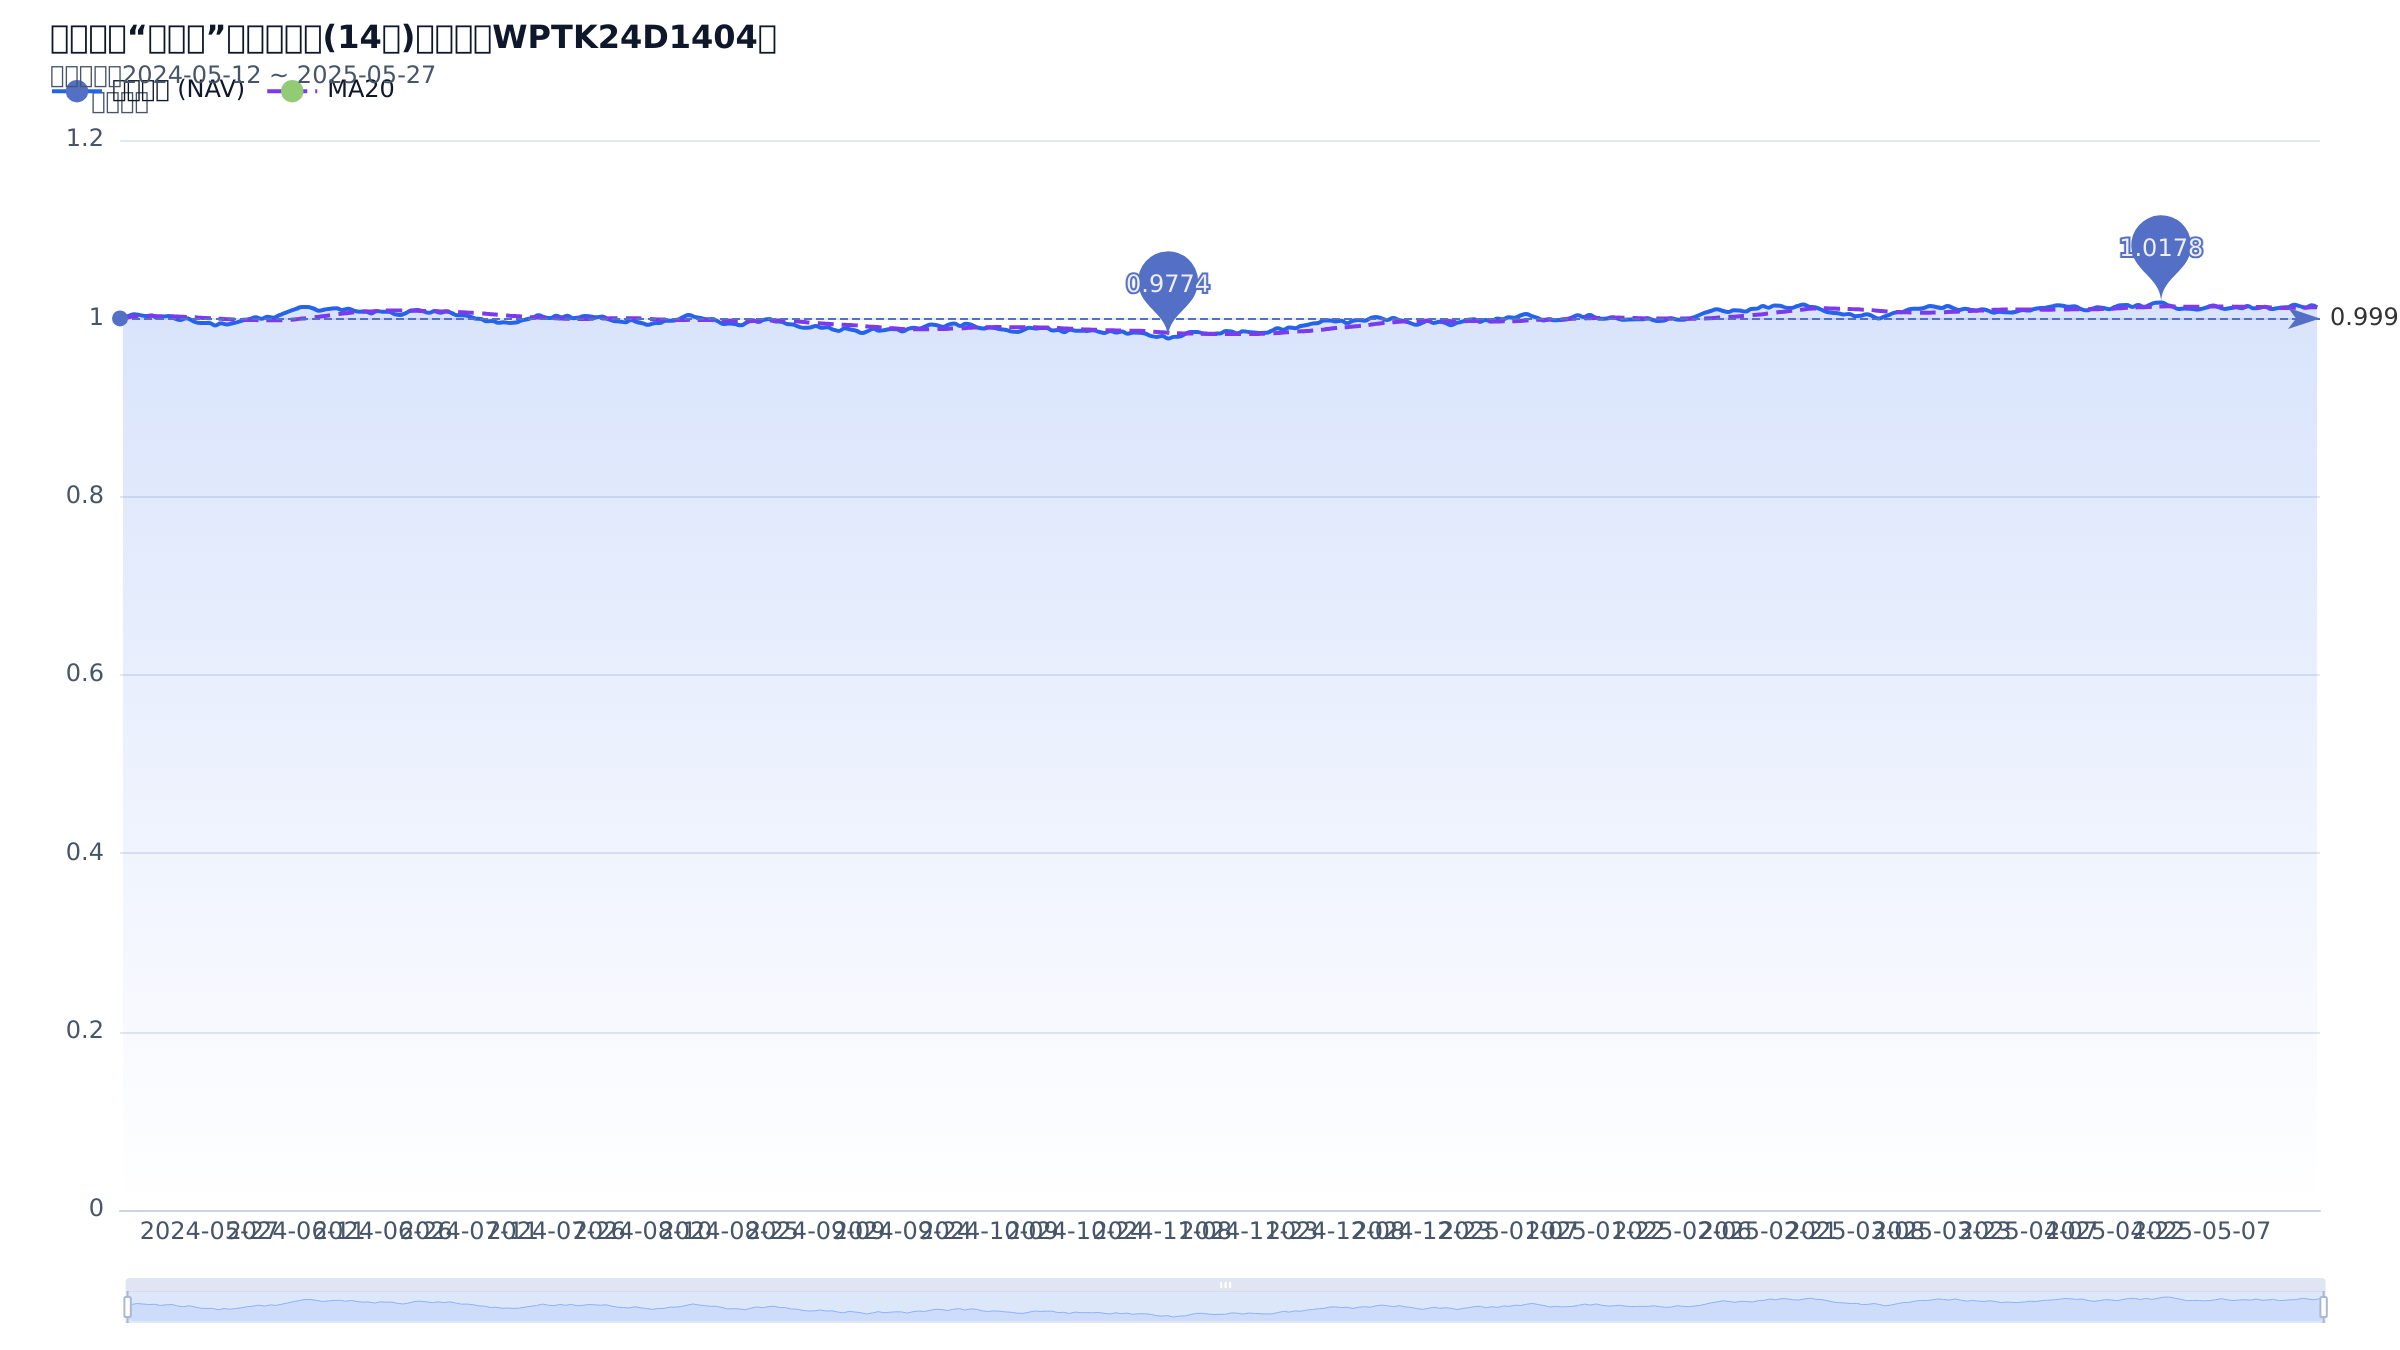
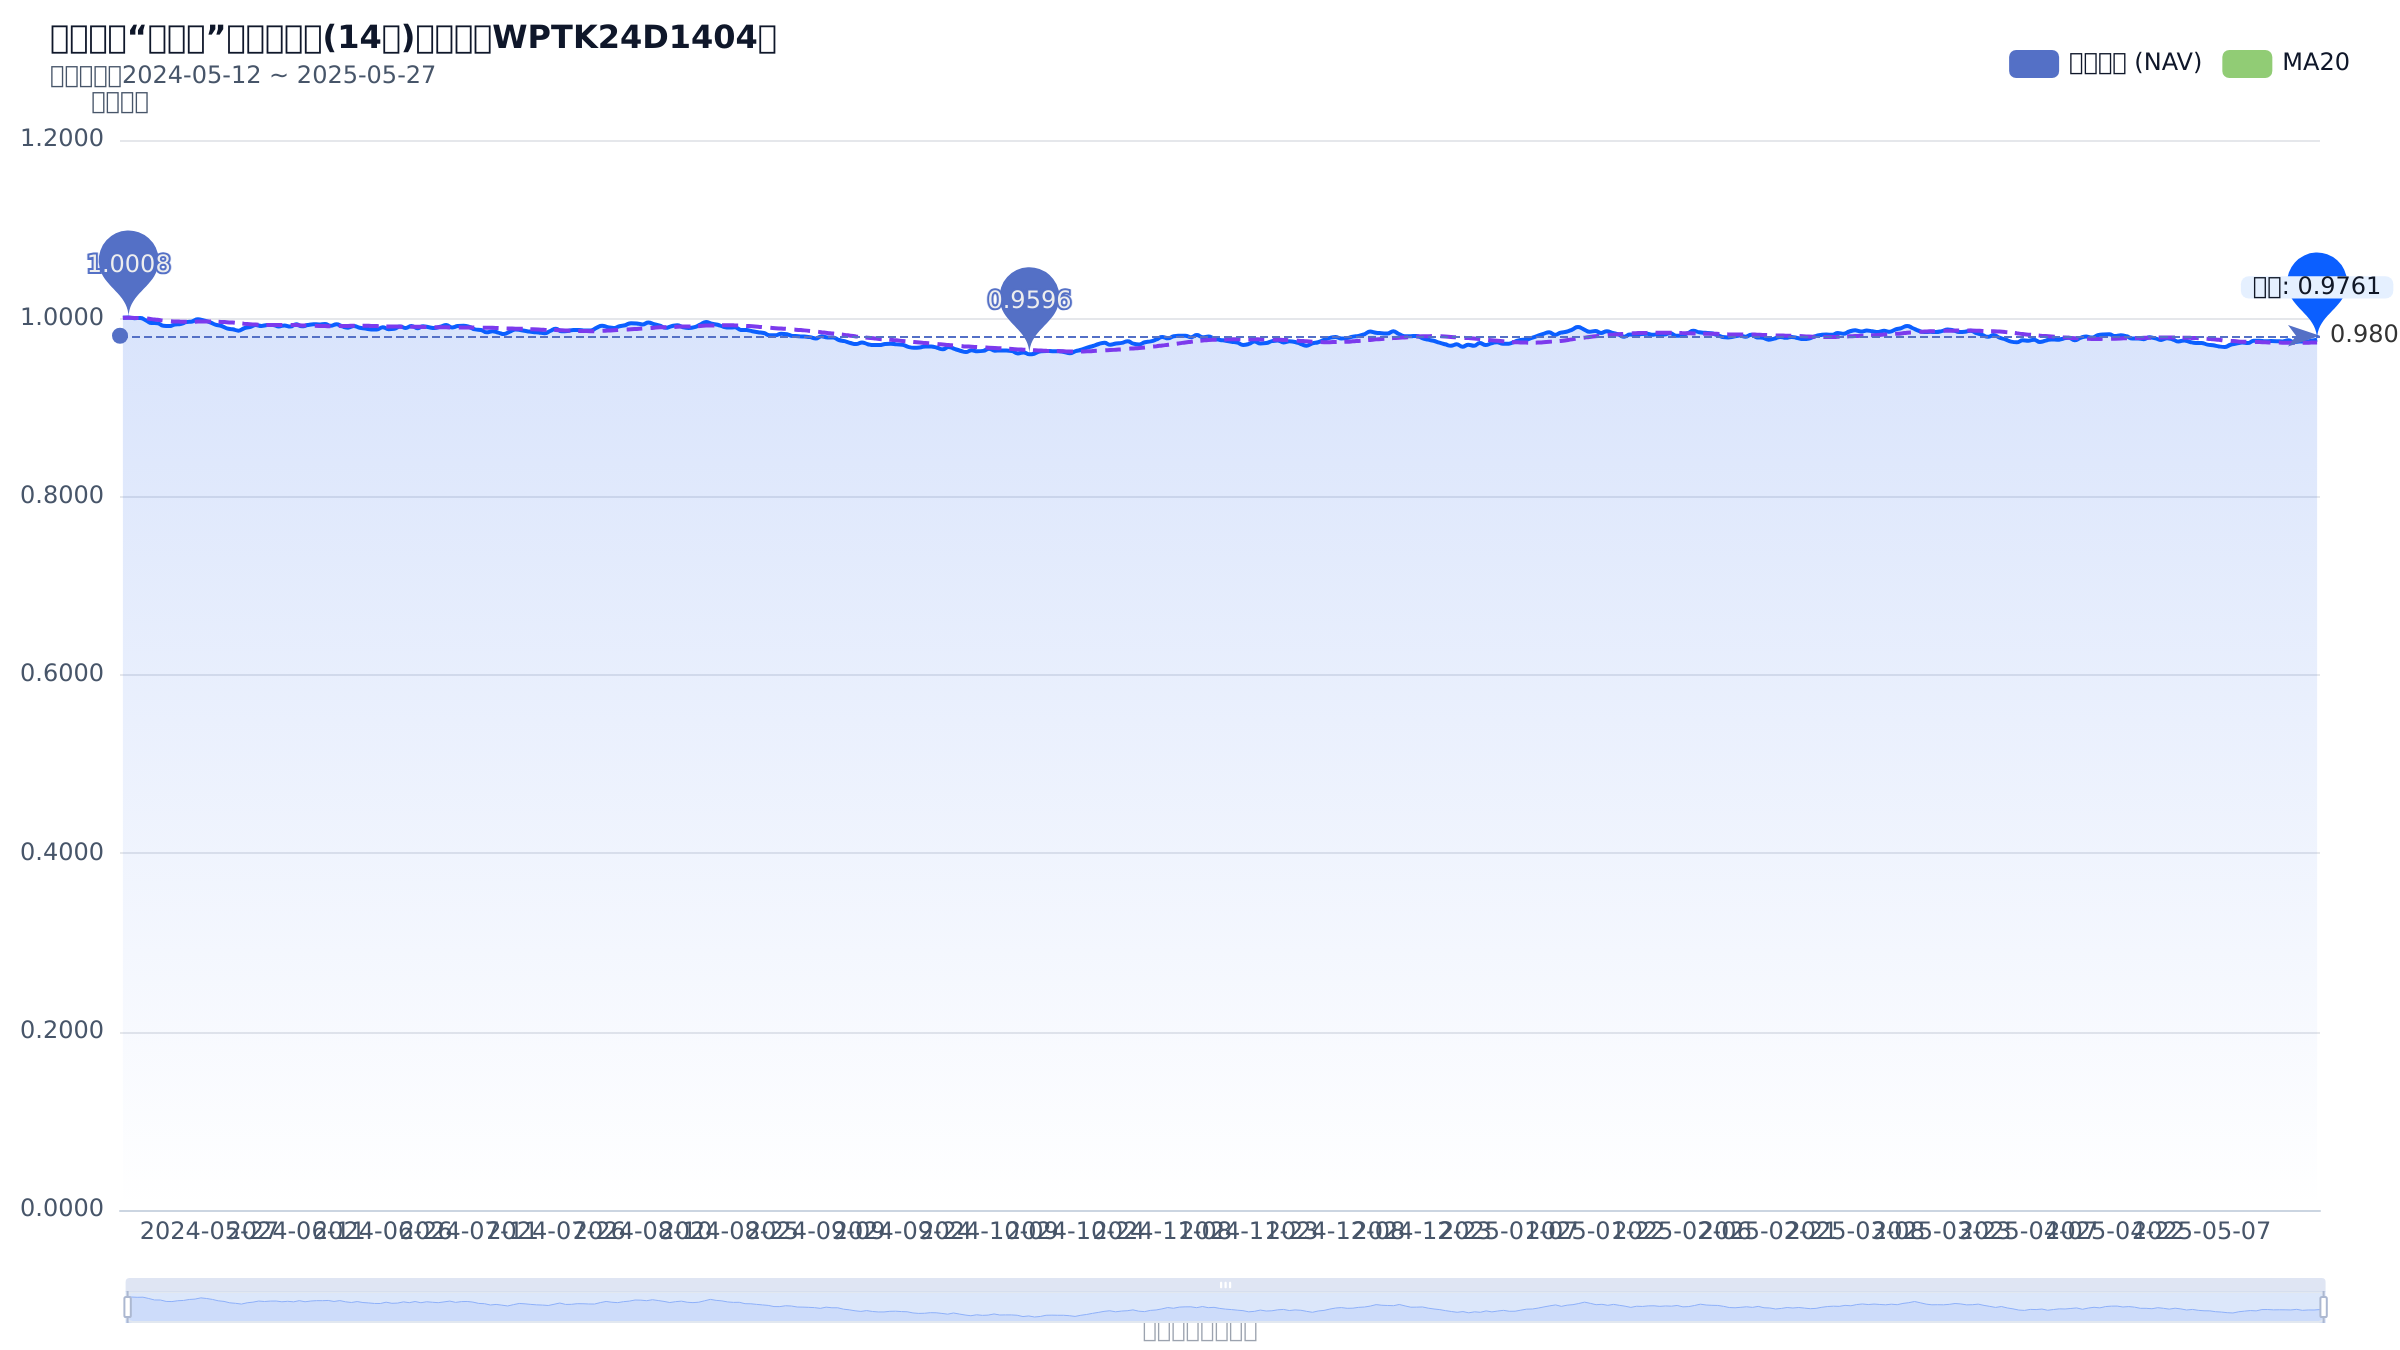
style(fund_nav): finalized professional styling with latest mark and footnote

diff --git a/scripts/render_fund_chart.js b/scripts/render_fund_chart.js
@@ -32,13 +32,19 @@ const puppeteer = require('puppeteer');
       title:{ text: productTitle, left: 20, top: 10, textStyle:{ color:'#0f172a', fontSize:16, fontWeight:600 }, subtext: rangeText, subtextStyle:{ color:'#475569', fontSize:12 } },
       tooltip:{ trigger:'axis', axisPointer:{ type:'cross' } },
       grid:{ left:60,right:40,top:70,bottom:70 },
-      legend:{ data:['单位净值 (NAV)','MA20'], top: 35, left: 20, textStyle:{ color:'#0f172a' } },
+      legend:{ data:['单位净值 (NAV)','MA20'], top: 20, right: 20, textStyle:{ color:'#0f172a' }, icon:'roundRect' },
       dataZoom:[{type:'inside'},{type:'slider',height:16,bottom:20,backgroundColor:'#f1f5f9', borderColor:'#e2e8f0'}],
-      xAxis:{ type:'category', data:days, axisLabel:{ color:'#475569', interval: 14 }, axisLine:{ lineStyle:{ color:'#cbd5e1' } }, axisTick:{ show:false } },
-      yAxis:{ type:'value', name:'单位净值', nameTextStyle:{ color:'#475569' }, axisLabel:{ color:'#475569' }, splitLine:{ lineStyle:{ color:'#e2e8f0' } } },
+      xAxis:{ type:'category', data:days, axisLabel:{ color:'#475569', interval: 14, rotate: 0 }, axisLine:{ lineStyle:{ color:'#cbd5e1' } }, axisTick:{ show:false } },
+      yAxis:{ type:'value', name:'单位净值', nameTextStyle:{ color:'#475569' }, axisLabel:{ color:'#475569', formatter:(val)=> Number(val).toFixed(4) }, splitLine:{ lineStyle:{ color:'#e5e7eb' } } },
+      graphic: [{
+        type:'text', left:'center', bottom: 6, style:{ text:'仅供内部报告使用', fill:'#9CA3AF', fontSize:12 }
+      }],
       series:[
-        { name:'单位净值 (NAV)', type:'line', data:nav, symbol:'none', smooth:true, lineStyle:{ color:'#2563eb', width:2 }, areaStyle:{ color:gradient }, markPoint:{ data:[{type:'max',name:'最高'},{type:'min',name:'最低'}] }, markLine:{ data:[{ name:'均值', yAxis:avg }] } },
-        { name:'MA20', type:'line', data:ma20, symbol:'none', smooth:true, lineStyle:{ color:'#7c3aed', width:2, type:'dashed' } }
+        { name:'单位净值 (NAV)', type:'line', data:nav, symbol:'none', smooth:true, lineStyle:{ color:'#0B5FFF', width:2 }, areaStyle:{ color:gradient }, 
+          markPoint:{ data:[{type:'max',name:'最高'},{type:'min',name:'最低'}, { coord:[days[days.length-1], nav[nav.length-1]], value: nav[nav.length-1], name:'latest', itemStyle:{ color:'#0B5FFF' }, label:{ formatter:function(p){ return '最新: ' + Number(p.value).toFixed(4); }, color:'#111827', backgroundColor:'#E5F0FF', padding:[2,6], borderRadius:4 } }] },
+          markLine:{ data:[{ name:'均值', yAxis:avg }] }
+        },
+        { name:'MA20', type:'line', data:ma20, symbol:'none', smooth:true, lineStyle:{ color:'#7C3AED', width:2, type:'dashed' } }
       ]
     };
     chart.setOption(option);
